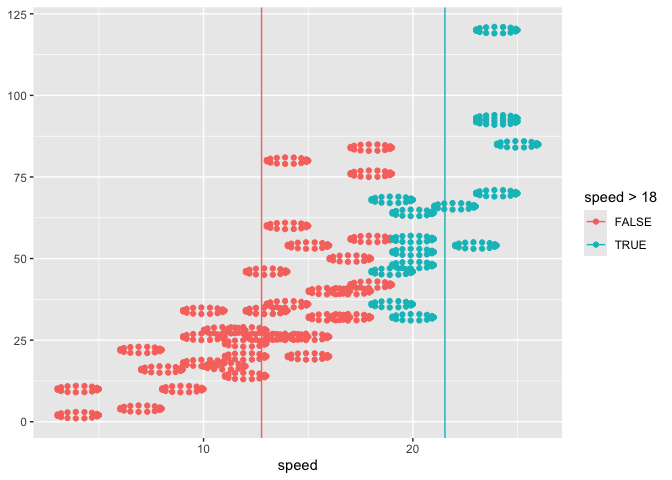
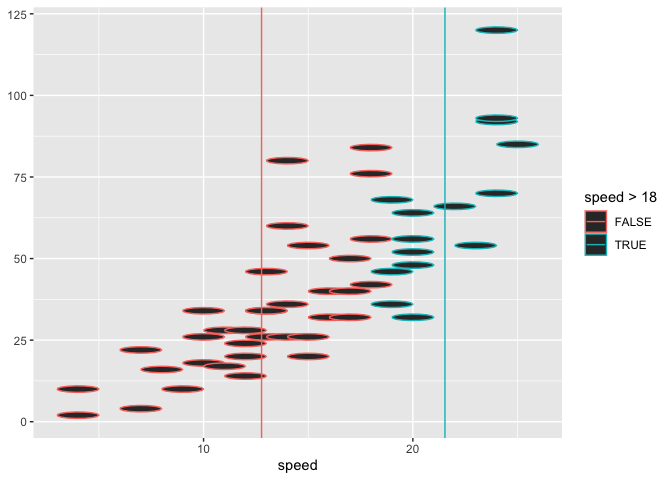
stars example

diff --git a/README.md b/README.md
@@ -3,16 +3,22 @@
       - [Intro Thoughts](#intro-thoughts)
       - [Status Quo: 1. compute, 2. ggproto, 3. define
         layer](#status-quo-1-compute-2-ggproto-3-define-layer)
-      - [Experimental: `define_temp_geom()` combines 2 and 3 in using a
+      - [Experimental: `define_layer_temp()` combines 2 and 3 in using a
         temp
-        stat](#experimental-define_temp_geom-combines-2-and-3-in-using-a-temp-stat)
+        stat](#experimental-define_layer_temp-combines-2-and-3-in-using-a-temp-stat)
           - [Try it out](#try-it-out)
           - [Can you define a second w/ the same
             StatTemp…](#can-you-define-a-second-w-the-same-stattemp)
-          - [Another method, even more experimental … using
-            assign…](#another-method-even-more-experimental--using-assign)
-          - [wrapping this..](#wrapping-this)
-  - [another text](#another-text)
+      - [And `create_layer_temp` method, even more experimental (but
+        feeling nicer to
+        use)](#and-create_layer_temp-method-even-more-experimental-but-feeling-nicer-to-use)
+          - [First just checking out how assign
+            works.](#first-just-checking-out-how-assign-works)
+          - [wrapping this…](#wrapping-this)
+      - [Let’s do star example\!](#lets-do-star-example)
+          - [a real-world example… :-)](#a-real-world-example--)
+  - [geom\_xmean on the fly with compute
+    group…](#geom_xmean-on-the-fly-with-compute-group)
   - [Part II. Packaging and documentation 🚧
     ✅](#part-ii-packaging-and-documentation--)
       - [Phase 1. Minimal working
@@ -70,10 +76,12 @@ Proposing the {ggtemp} package\! 🦄
 The goal of {ggtemp} is to make writing some quick useful extension
 functions succinct. Right now, the amount of code required to write
 extensions is a bit of a mouthful, and could feel prohibitive for
-analysts. Specifically, defining new geom\_\* and stat\_\* layers
-outside of the context of a package, I believe, is not common, but could
-be useful. However the usual amount of code required to make such
-definitions, might feel like it ‘gunks up’ your script.
+day-to-day analysis. Specifically, defining new geom\_\* and stat\_\*
+layers outside of the context of a package, I believe, is not common,
+but could be quite useful, ultimately making plot builds intiuitive,
+fun, and readable. However the usual amount of code required to make
+define new geom\_\* or stat\_\* functions, might feel like it ‘gunks up’
+your script.
 
 With the {ggtemp} package, we’ll live in a different world (🦄 🦄 🦄) where
 the task is a snap 🫰, and the readability of the in-script definition of
@@ -98,6 +106,7 @@ Proposed API where we create a new geom\_\* layer function
                       compute_group = compute_group_xmean,
                       required_aes = "x",
                       geom = "segment")
+                      
                       
     # 3. Use temp layer!                   
     ggplot(data = cars) + 
@@ -178,7 +187,7 @@ data.frame(x0 = 0:1, y0 = 0:1, r = 1:2/3) |>
 
 ![](README_files/figure-gfm/cars-1.png)<!-- -->
 
-## Experimental: `define_temp_geom()` combines 2 and 3 in using a temp stat
+## Experimental: `define_layer_temp()` combines 2 and 3 in using a temp stat
 
 ``` r
 define_layer_temp <- function(
@@ -309,7 +318,9 @@ data.frame(x0 = 0:1, y0 = 0:1, r = 1:2/3) |>
 
 ![](README_files/figure-gfm/unnamed-chunk-5-1.png)<!-- -->
 
-### Another method, even more experimental … using assign…
+## And `create_layer_temp` method, even more experimental (but feeling nicer to use)
+
+### First just checking out how assign works.
 
 ``` r
 assign(x = "geom_circle", 
@@ -327,7 +338,7 @@ assign(x = "geom_circle",
 )
 ```
 
-### wrapping this..
+### wrapping this…
 
 ``` r
 create_layer_temp <- function(fun_name ="geom_circle", 
@@ -339,7 +350,6 @@ create_layer_temp <- function(fun_name ="geom_circle",
   assign(x = fun_name, 
          value = function(...){
            
-  
   define_layer_temp(
     required_aes = required_aes,
     compute_panel = compute_panel,
@@ -355,17 +365,22 @@ create_layer_temp <- function(fun_name ="geom_circle",
 #### and trying it out
 
 ``` r
-create_layer_temp(fun_name = "stat_circle", 
-                        compute_panel = compute_panel_circle)
+create_layer_temp(fun_name = "stat_circle",
+                  required_aes = c("x0", "y0", "r"),
+                  compute_panel = compute_panel_circle,
+                  geom = "polygon")
 
 
 library(ggplot2)
 ggplot(cars) + 
-  aes(x0 = speed, y0 =  dist, r = 1) + 
-  stat_circle()
+  aes(x0 = speed, y0 =  dist, r = 3) + 
+  stat_circle(alpha = .4) + 
+  coord_equal()
 ```
 
-![](README_files/figure-gfm/unnamed-chunk-8-1.png)<!-- -->
+![](README_files/figure-gfm/unnamed-chunk-7-1.png)<!-- -->
+
+## Let’s do star example\!
 
 ``` r
 compute_panel_star <- function(data, scales, n_points = 5, prop_inner_r){
@@ -374,35 +389,55 @@ compute_panel_star <- function(data, scales, n_points = 5, prop_inner_r){
   
   data %>%
   mutate(group = row_number()) %>%
-  tidyr::crossing(around = 2*pi*0:(n_vertices)/(n_vertices)) %>%
+  tidyr::crossing(around = 2*pi*0:(n_vertices)/(n_vertices)+pi/2) %>%
     dplyr::mutate(
-      y = y0 + (r - c(rep(c(0,.3), 5), 0)
+      y = y + (r - r*c(rep(c(0,.35), 5), 0)
                 ) * sin(around) ,
-      x = x0 + (r - c(rep(c(0,.3), 5), 0)
+      x = x + (r - r*c(rep(c(0,.35), 5), 0)
                 ) * cos(around)
       ) 
 
 }
 
-
-
-
-create_layer_temp(fun_name = "stat_star", 
+create_layer_temp(fun_name = "geom_star", 
                   compute_panel = compute_panel_star,
-                  required_aes = c("x0", "y0", "r"),
-                  geom = "path")
+                  required_aes = c("x", "y", "r"),
+                  geom = "polygon")
 
 
 library(ggplot2)
-ggplot(cars[1:5,] ) + 
-  aes(x0 = speed, y0 =  dist, r = 1) + 
-  stat_star() + 
+ggplot(cars[1:8,] ) + 
+  aes(x = speed, y =  dist, r = 1) + 
+  geom_star() + 
   coord_equal()
+```
+
+![](README_files/figure-gfm/unnamed-chunk-8-1.png)<!-- -->
+
+### a real-world example… :-)
+
+``` r
+twinkle_little_star_drm <- "ddsslls ffmmrrd"
+twinkle_lyrics <- "Twin-kle twin-kle lit-tle star
+How I won-der what you are"
+
+
+twinkle_little_star_drm |>
+ggdoremi:::join_phrases_drm_lyrics(twinkle_lyrics) |>
+ ggplot() + 
+   aes(y = drm, x = id_in_phrase, r = .58, label = lyric) + 
+   facet_wrap(~id_phrase) + 
+  geom_star(alpha = .4) +
+  geom_text(size = 5) +
+  coord_equal() + 
+  aes(fill = doremi, color = doremi)
+#> Joining with `by = join_by(drm)`
+#> Joining with `by = join_by(id_phrase, id_in_phrase)`
 ```
 
 ![](README_files/figure-gfm/unnamed-chunk-9-1.png)<!-- -->
 
-# another text
+# geom\_xmean on the fly with compute group…
 
 ``` r
 compute_group_xmean <- function(data, scales){
@@ -466,6 +501,7 @@ Use new {readme2pkg} function to do this from readme…
 
 ``` r
 readme2pkg::chunk_to_r("define_layer_temp")
+readme2pkg::chunk_to_r("create_layer_temp")
 ```
 
 ### Bit E. Run `devtools::check()` and addressed errors. 🚧 ✅
